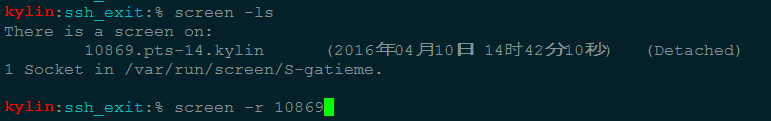
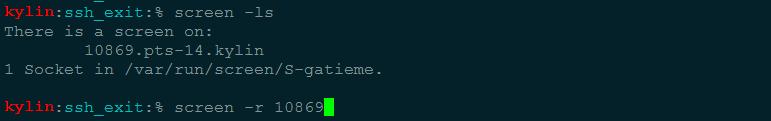
解决Linux关闭终端(关闭SSH等)后运行的程序自动停止--http://blog.csdn.net/gatieme/article/details/52777721

Changed region(s): [[0.4047, 0.3471, 0.8093, 0.4711], [0.8405, 0.3719, 0.965, 0.4711]]

diff --git a/system/tools/ssh_exit/README.md b/system/tools/ssh_exit/README.md
@@ -198,8 +198,13 @@ nohup ./hello &
 
 ![screen查看进程的状态](screen_ls.png)
 
-There is a screen on: d22292.pts-3.free (Detached)
-1 Socket in /tmp/screens/S-root，这里的22292其实是子界面的pid号；
+```cpp
+There is a screen on:
+    10869.pts-14.kylin (Detached)
+1 Socket in /var/run/screens/S-gatieme.
+```
+
+，这里的10869其实是子界面的pid号；
 
 
 如果回到子界面 用screen –r 22292，一下子弹到了./hello的子界面；
